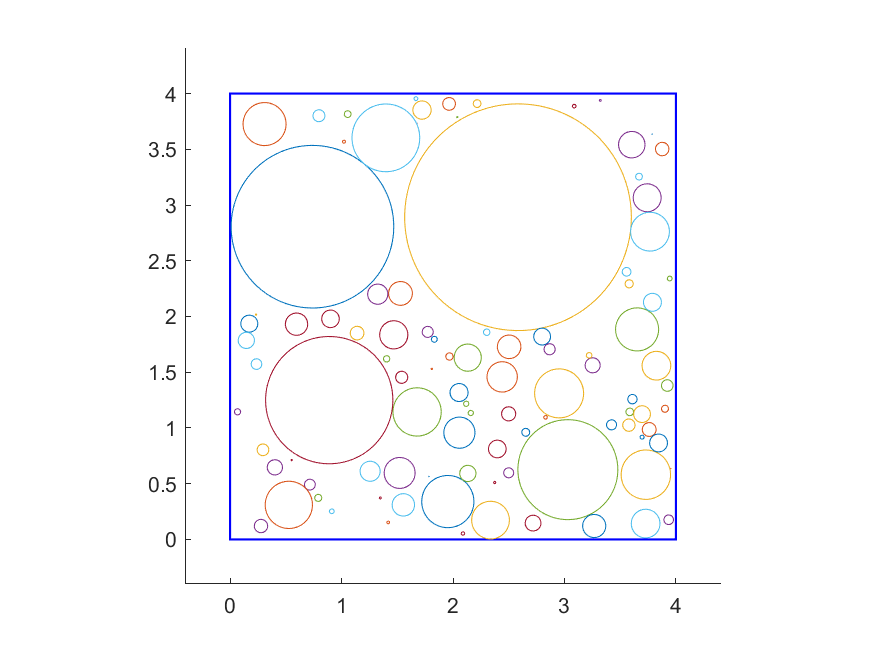
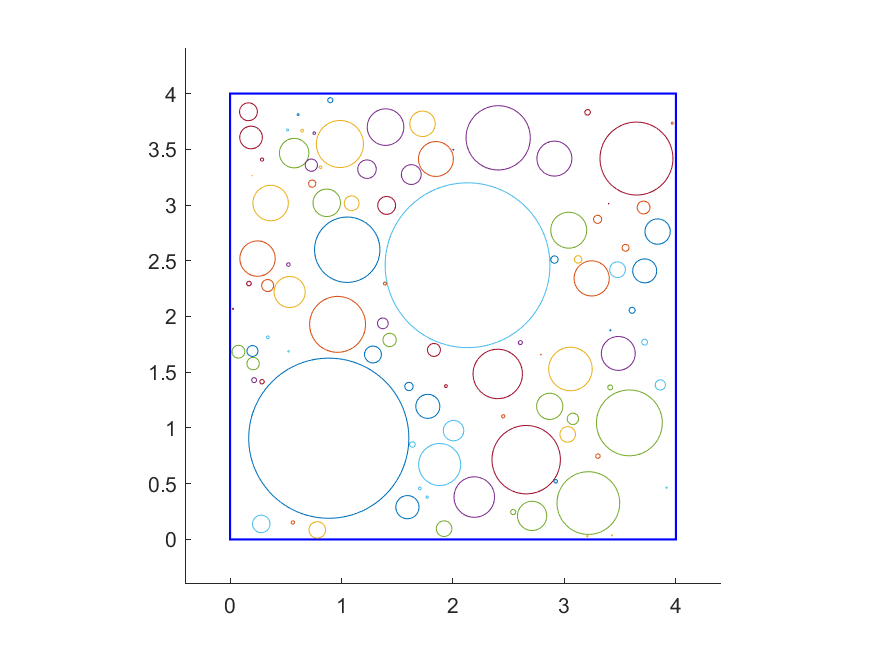
numeryczne lab2 done

diff --git a/Metody_Numeryczne_lab/lab2/circles/generate_circles.m b/Metody_Numeryczne_lab/lab2/circles/generate_circles.m
@@ -1,87 +1,48 @@
 function [circles, index_number, circle_areas, rand_counts, counts_mean] = generate_circles(a, r_max, n_max)
     index_number = 193141;
     r_max = a/2;
-    L1 = mod(index_number, 10);
     rand_counts = zeros(1,n_max);
+    
+    circles = zeros(3, n_max);
+    circle_areas = zeros(1,n_max);
+    counts_mean = zeros(1,n_max);
+    i = 1;
+    while i <= n_max
+        circle_is_valid = 0;
+        rand_count = 0;
 
+        while ~circle_is_valid
+            r = rand() * r_max;
+            x = rand() * a;
+            y = rand() * a;
+            rand_count = rand_count+1;
 
-    if mod(L1, 2) == 0
-        circles = zeros(n_max, 3);
-        i = 1;
-        while i <= n_max
-            circle_is_valid = 0;
-            rand_count = 0;
-
-            while ~circle_is_valid
-                r = rand() * r_max;
-                x = rand() * a;
-                y = rand() * a;
-                rand_count = rand_count+1;
-
-                if x + r <= a && x - r >= 0 && y + r <= a && y - r >= 0
-                    circle_is_overlap = 0;
-                    for j=1:size(circles,1)
-                        if sqrt((x - circles(j,1))^2 + (y - circles(j,2))^2) <= r+circles(j,3)
-                            circle_is_overlap = 1;
-                            break;
-                        end
-                    end
-                
-                    if ~circle_is_overlap
-                        circle_is_valid = 1;
+            if x + r <= a && x - r >= 0 && y + r <= a && y - r >= 0
+                circle_is_overlap = 0;
+                for j=1:size(circles,2)
+                    if sqrt((x - circles(2,j))^2 + (y - circles(3,j))^2) <= r+circles(1,j)
+                        circle_is_overlap = 1;
+                        break;
                     end
                 end
-            end
-
-            circles(i, 1) = x;
-            circles(i, 2) = y;
-            circles(i, 3) = r;
-            i = i+1;
             
+                if ~circle_is_overlap
+                    circle_is_valid = 1;
+                end
+            end
         end
+
+        circles(1, i) = r;
+        circles(2, i) = x;
+        circles(3, i) = y;
+
+        circle_areas(i) = pi * r^2;
+        rand_counts(i) = rand_count;
         
-    else
-        circles = zeros(3, n_max);
-        circle_areas = zeros(1,n_max);
-        counts_mean = zeros(1,n_max);
-        i = 1;
-        while i <= n_max
-            circle_is_valid = 0;
-            rand_count = 0;
+        counts_mean(i) = mean(rand_counts(1:i));
 
-            while ~circle_is_valid
-                r = rand() * r_max;
-                x = rand() * a;
-                y = rand() * a;
-                rand_count = rand_count+1;
-
-                if x + r <= a && x - r >= 0 && y + r <= a && y - r >= 0
-                    circle_is_overlap = 0;
-                    for j=1:size(circles,2)
-                        if sqrt((x - circles(2,j))^2 + (y - circles(3,j))^2) <= r+circles(1,j)
-                            circle_is_overlap = 1;
-                            break;
-                        end
-                    end
-                
-                    if ~circle_is_overlap
-                        circle_is_valid = 1;
-                    end
-                end
-            end
-
-            circles(1, i) = r;
-            circles(2, i) = x;
-            circles(3, i) = y;
-
-            circle_areas(i) = pi * r^2;
-            rand_counts(i) = rand_count;
-            
-            counts_mean(i) = mean(rand_counts(1:i));
-
-            i = i+1;
-            
-        end
+        i = i+1;
+        
     end
     circle_areas = cumsum(circle_areas);
 end

diff --git a/Metody_Numeryczne_lab/lab2/circles/plot_circles.m b/Metody_Numeryczne_lab/lab2/circles/plot_circles.m
@@ -1,22 +1,19 @@
 function plot_circles(a, circles, index_number)
+    
+    figure;
     axis equal;
-    axis([-0.1*a 1.1*a -0.1*a 1.1*a]); % Expand the range of values for the axes
+    axis([-0.1*a 1.1*a -0.1*a 1.1*a]);
     hold on;
     
-    rectangle('Position', [0, 0, a, a], 'EdgeColor', 'b', 'LineWidth', 1); % Draw rectangle
+    rectangle('Position', [0, 0, a, a], 'EdgeColor', 'b', 'LineWidth', 1);
 
-    L1 = mod(index_number, 10);
-    if mod(L1, 2) == 0
-        for i = 1:size(circles, 1)
-            plot_circle(circles(i, 3), circles(i, 1), circles(i, 2));
-            pause(0.1);
-        end
-    else
-        for i = 1:size(circles, 2)
-            plot_circle(circles(1, i), circles(2, i), circles(3, i));
-            pause(0.1);
-        end
+
+
+    for i = 1:size(circles, 2)
+        plot_circle(circles(1, i), circles(2, i), circles(3, i));
+        pause(0.1);
     end
+
     
     hold off;
 end

diff --git a/Metody_Numeryczne_lab/lab2/pageRank/page_rank.m b/Metody_Numeryczne_lab/lab2/pageRank/page_rank.m
@@ -4,15 +4,18 @@ d = 0.85;
 N = 8;
 
 Edges = [ 1, 1, 2, 2, 2, 2, 3, 3, 3, 4, 4, 5, 5 ,6, 6, 7, 8;
-          6, 4, 4, 5, 3, 8, 5, 6, 7, 6, 5, 6, 6, 7, 4, 6, 5];
+          6, 4, 4, 5, 3, 8, 5, 6, 7, 6, 5, 4, 6, 7, 4, 6, 5];
 
 I = speye(N);
 B = sparse(Edges(2, :), Edges(1, :), 1, N, N);
 
 
-A = spdiags(sum(B,2), 0, N,N);
+L = sum(B,1);
+A = spdiags(1./L', 0, N,N);
 b = (1-d)/N * ones(N, 1);
-r = [];
+
+M = sparse(I - d*B*A);
+r = M\b;
 
 end
 

diff --git a/Metody_Numeryczne_lab/lab2/circles/plot_counts_mean.m b/Metody_Numeryczne_lab/lab2/circles/plot_counts_mean.m
@@ -1,4 +1,5 @@
 function plot_counts_mean(counts_mean)
+    figure;
     plot(1:size(counts_mean,2), counts_mean, 'b-');
     xlabel('i');
     ylabel('mean');

diff --git a/Metody_Numeryczne_lab/lab2/pageRank/plot_PageRank.m b/Metody_Numeryczne_lab/lab2/pageRank/plot_PageRank.m
@@ -1,0 +1,11 @@
+function plot_PageRank(r)
+
+bar(r);
+xlabel('page');
+ylabel('PR(page)');
+title('Counts Mean Plot');
+print -dpng zadanie7.png 
+
+
+end
+

diff --git a/Metody_Numeryczne_lab/lab2/circles/plot_circle_areas.m b/Metody_Numeryczne_lab/lab2/circles/plot_circle_areas.m
@@ -1,5 +1,5 @@
 function plot_circle_areas(circle_areas)
-
+    figure;
 
     plot(1:size(circle_areas,2), circle_areas, 'b-');
     xlabel('i');

diff --git a/Metody_Numeryczne_lab/lab2/pageRank/main.m b/Metody_Numeryczne_lab/lab2/pageRank/main.m
@@ -1,1 +1,2 @@
-[numer_indeksu, Edges, I, B, A, b, r] = page_rank()
+[numer_indeksu, Edges, I, B, A, b, r] = page_rank();
+plot_PageRank(r);
